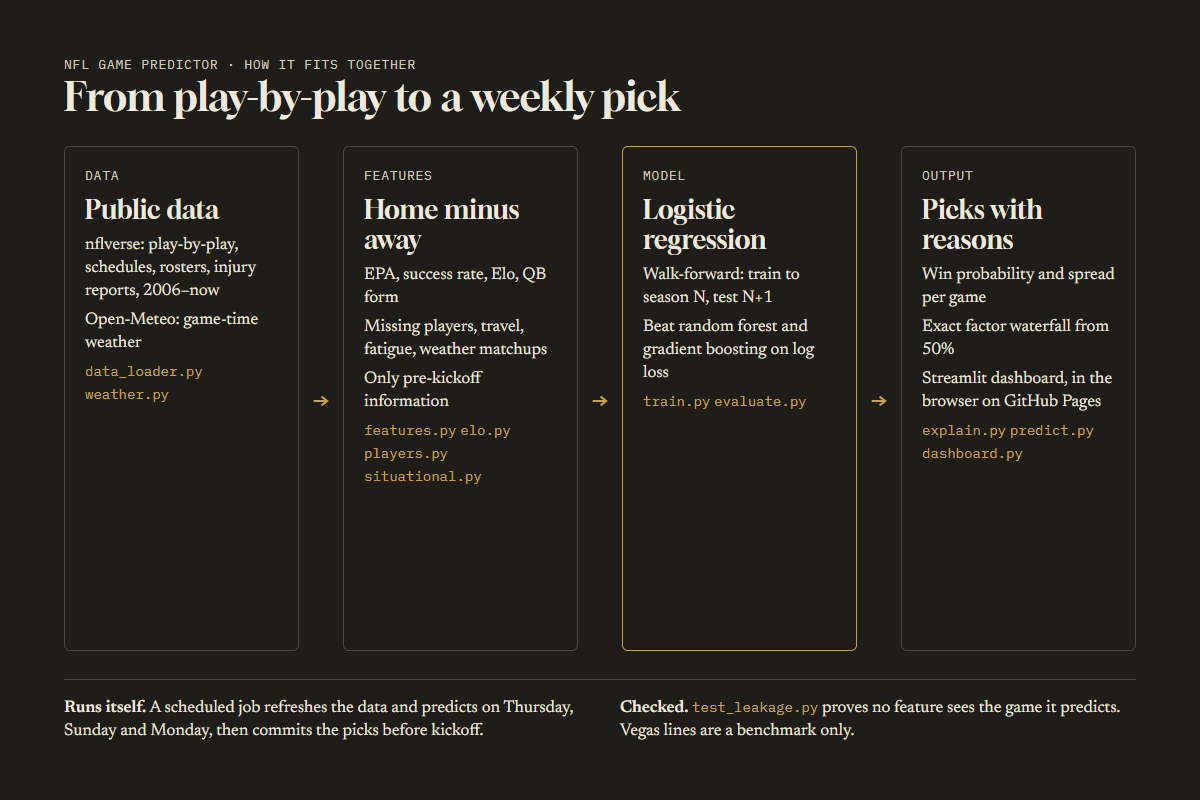
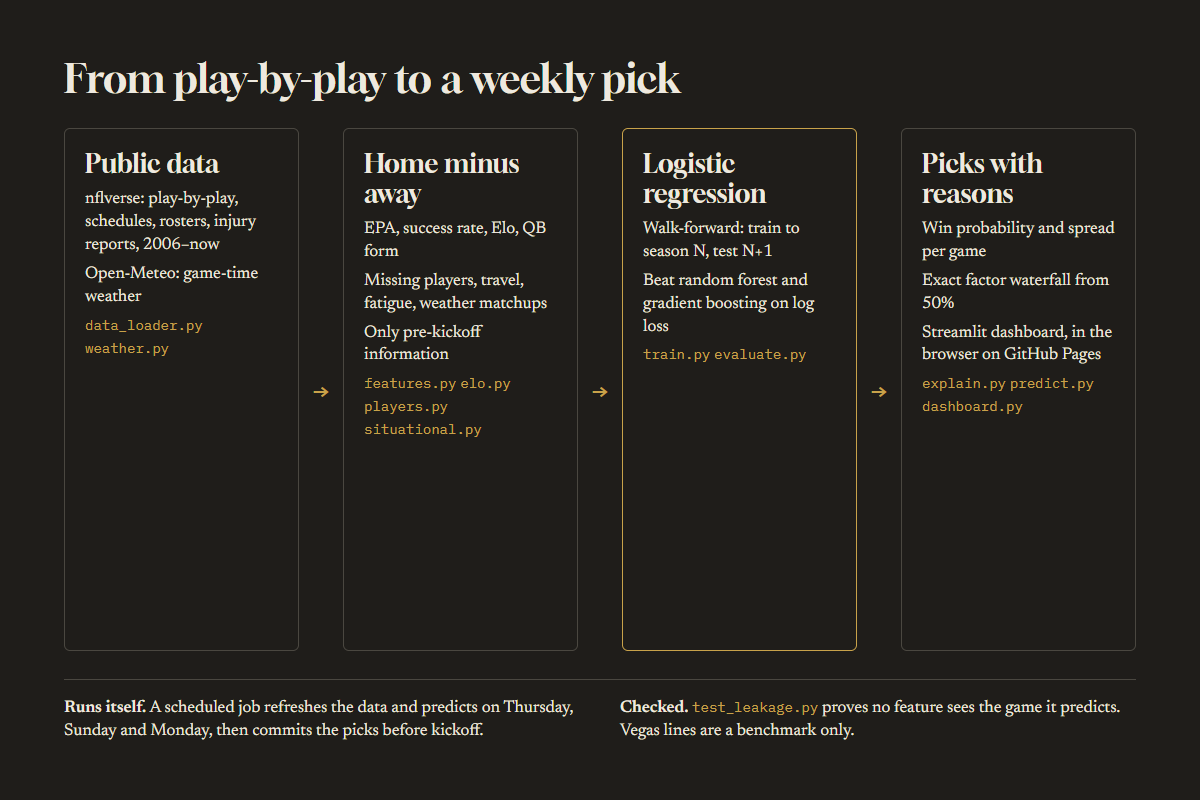
Rename the predictors to Fourth and Why, Full Count and Tip-Off

diff --git a/scripts/diagrams/nfl-predictor.html b/scripts/diagrams/nfl-predictor.html
@@ -1,27 +1,27 @@
 <!doctype html>
-<!-- NFL Game Predictor architecture. Source: the README of github.com/arinb44/NFLGamePredictorModel (project structure, automation). -->
+<!-- Fourth and Why (NFL Game Predictor) architecture. Source: the README of github.com/arinb44/NFLGamePredictorModel (project structure, automation). -->
 <html lang="en">
 <head><meta charset="utf-8"><link rel="stylesheet" href="diagram.css"></head>
 <body>
-  <div><p class="label">NFL Game Predictor · how it fits together</p><h1>From play-by-play to a weekly pick</h1></div>
+  <h1>From play-by-play to a weekly pick</h1>
   <div class="flow">
     <div class="step">
-      <p class="label">Data</p><h2>Public data</h2>
+      <h2>Public data</h2>
       <ul><li>nflverse: play-by-play, schedules, rosters, injury reports, 2006–now</li><li>Open-Meteo: game-time weather</li><li><code>data_loader.py</code> <code>weather.py</code></li></ul>
     </div>
     <div class="arrow">→</div>
     <div class="step">
-      <p class="label">Features</p><h2>Home minus away</h2>
+      <h2>Home minus away</h2>
       <ul><li>EPA, success rate, Elo, QB form</li><li>Missing players, travel, fatigue, weather matchups</li><li>Only pre-kickoff information</li><li><code>features.py</code> <code>elo.py</code> <code>players.py</code> <code>situational.py</code></li></ul>
     </div>
     <div class="arrow">→</div>
     <div class="step key">
-      <p class="label">Model</p><h2>Logistic regression</h2>
+      <h2>Logistic regression</h2>
       <ul><li>Walk-forward: train to season N, test N+1</li><li>Beat random forest and gradient boosting on log loss</li><li><code>train.py</code> <code>evaluate.py</code></li></ul>
     </div>
     <div class="arrow">→</div>
     <div class="step">
-      <p class="label">Output</p><h2>Picks with reasons</h2>
+      <h2>Picks with reasons</h2>
       <ul><li>Win probability and spread per game</li><li>Exact factor waterfall from 50%</li><li>Streamlit dashboard, in the browser on GitHub Pages</li><li><code>explain.py</code> <code>predict.py</code> <code>dashboard.py</code></li></ul>
     </div>
   </div>

diff --git a/tests/e2e/home.spec.ts b/tests/e2e/home.spec.ts
@@ -156,7 +156,7 @@ test('reduced motion: the projects at once, no opening', async ({ page }) => {
   await page.goto('/');
   await expect(page.locator(html)).toHaveClass(/revealed/);
   await expect(page.locator(html)).not.toHaveClass(/intro/);
-  await expect(page.getByRole('heading', { level: 3, name: 'NFL Game Predictor' })).toBeVisible();
+  await expect(page.getByRole('heading', { level: 3, name: 'Fourth and Why' })).toBeVisible();
 });
 
 test('no WebGL2: the projects at once over the first project\'s image', async ({ page }) => {
@@ -199,7 +199,7 @@ test.describe('with JavaScript off', () => {
   test('the finished page shows: all 5 projects over the first project\'s image', async ({ page }) => {
     await page.goto('/');
     await expect(page.getByRole('link', { name: /^View project/ })).toHaveCount(5);
-    await expect(page.getByRole('heading', { level: 3, name: 'NFL Game Predictor' })).toBeVisible();
+    await expect(page.getByRole('heading', { level: 3, name: 'Fourth and Why' })).toBeVisible();
     await expect(page.locator('.visuals img').first()).toBeVisible();
   });
 });

diff --git a/tests/e2e/site.spec.ts b/tests/e2e/site.spec.ts
@@ -90,8 +90,8 @@ test.describe('with JavaScript off', () => {
 
   test('home → project → next project → Projects all work', async ({ page }) => {
     await page.goto('/');
-    await page.getByRole('link', { name: /View project.*NBA Game Predictor/ }).click();
-    await expect(page.getByRole('heading', { level: 1 })).toHaveText('NBA Game Predictor');
+    await page.getByRole('link', { name: /View project.*Tip-Off/ }).click();
+    await expect(page.getByRole('heading', { level: 1 })).toHaveText('Tip-Off');
     await page.getByRole('link', { name: 'Next: Nightfall' }).click();
     await expect(page.getByRole('heading', { level: 1 })).toHaveText('Nightfall');
     await page.getByRole('link', { name: 'Projects', exact: true }).click();

diff --git a/output/project-info/decisions.md b/output/project-info/decisions.md
@@ -15,3 +15,6 @@
 | 11 | 2026-11-18 | Commits and pushes | Ask each time | **Standing approval from the user:** "auto approve and push the commits" while they are away overnight. Decisions that would normally be asked are taken with the recommended option and logged here (marked *standing*) for review. |
 | 12 | 2026-11-18 | *standing* NFL metric framing | Show 65.5% with both baselines; show no metric | Shown: **65.5%** winner accuracy vs 53.7% always-home, held-out 2019–2025 (1,954 games), with Vegas favourites' 66.4% named in the context so the model isn't oversold. Source: README "Holdout 2019–2025" table and `reports/results.json` (logistic, holdout 2019-25, accuracy 0.6546). |
 | 13 | 2026-11-18 | *standing* NFL Origins image | Notebook plot; early commit | `notebooks/01_data_exploration.ipynb` cell 3 (home win rate by season), the only plot in the first notebook; the notebook has one commit (13e47fc, 2026-09-21). Placed on white at native size (834×556) because the PNG is transparent with dark text. |
+| 14 | 2026-11-18 | Rename the bland predictor titles (user asked mid-M3; renamed before finishing MLB/NBA so diagrams, alt text and tests aren't redone) | Per project, 3 options drawn from its angle | **NFL → Fourth and Why**, **MLB → Full Count** (from a second round of baseball-phrase options), **NBA → Tip-Off**. Nightfall and Falling Constellations keep their names. Display `title` only: repo names, GitHub Pages URLs, slugs (`/projects/nfl-predictor/`) and the slug-keyed painted loops are unchanged. The one-liners keep naming the sport. |
+| 15 | 2026-11-18 | Design-hook findings on the diagrams (kicker labels above headings) | Fix; suppress | Fixed: removed the project kicker and the DATA/FEATURES/MODEL/OUTPUT stage labels from both diagrams; recaptured. |
+| 16 | 2026-11-18 | *standing* MLB stack line | Keep `LightGBM`, `pybaseball`; match the code | `LightGBM` is in `requirements.txt` but never imported in `src/` or `scripts/`, so it is dropped; the demo's FastAPI and Docker are added. |

diff --git a/src/content/projects/nfl-predictor.md b/src/content/projects/nfl-predictor.md
@@ -1,6 +1,6 @@
 ---
 draft: true
-title: NFL Game Predictor
+title: Fourth and Why
 oneLine: Predicts each NFL team's win probability and explains which factors drove each pick.
 role: "Solo: data pipeline, features, model, dashboard and the weekly automation."
 stack: [Python, pandas, scikit-learn, Streamlit]

diff --git a/src/content/projects/mlb-predictor.md b/src/content/projects/mlb-predictor.md
@@ -1,6 +1,6 @@
 ---
 draft: true
-title: MLB Game Predictor
+title: Full Count
 oneLine: Calibrated MLB home-win probabilities, honest about the ~55–58% accuracy ceiling.
 role: "TODO: your role (solo or team, and what you did)"
 stack: [Python, PyTorch, XGBoost, LightGBM, pybaseball]

diff --git a/src/content/projects/nba-predictor.md b/src/content/projects/nba-predictor.md
@@ -1,6 +1,6 @@
 ---
 draft: true
-title: NBA Game Predictor
+title: Tip-Off
 oneLine: Predicts NBA winners, margins and calibrated win probabilities.
 role: "TODO: your role (solo or team, and what you did)"
 stack: [Python, scikit-learn, Docker, Streamlit]
